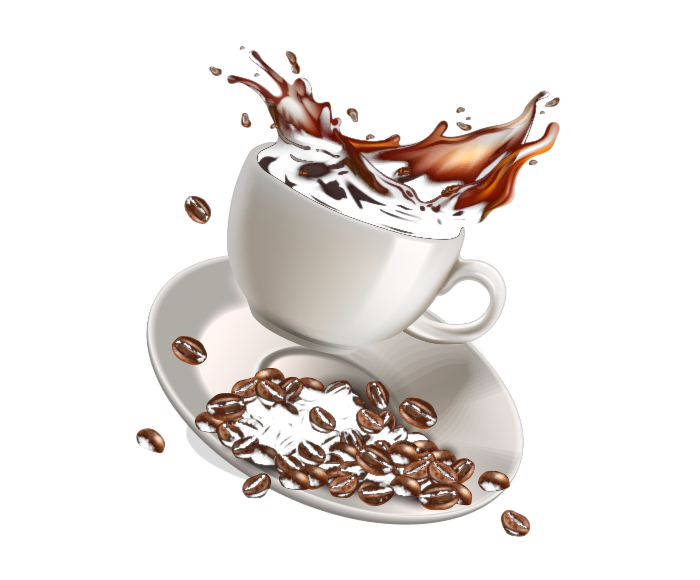
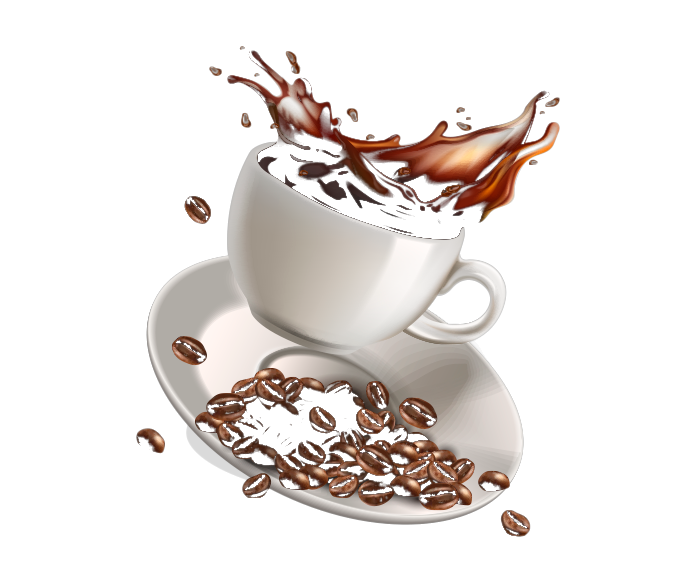
Cups pop from bg with shadow; feedback splashes beside card in side gutters.

diff --git a/bean-scene/styles.css b/bean-scene/styles.css
@@ -600,6 +600,7 @@ select {
   overflow-x: clip;
   overflow-y: visible;
   padding-top: 6.5rem;
+  /* Extra bottom so hanging avatar isn't clipped by next section */
   padding-bottom: 10rem;
   min-height: 640px;
 }
@@ -615,11 +616,13 @@ select {
 
 .feedback__wrap {
   position: relative;
-  z-index: 1;
+  z-index: 3;
   display: flex;
   align-items: center;
   gap: 0;
-  max-width: 940px;
+  /* Narrow card → side gutters for splashes BESIDE, not under */
+  max-width: 720px;
+  width: 100%;
   margin: 0 auto 2rem;
   /* Room for 112px avatar hanging below the card (bottom: -56px) */
   padding-bottom: 7.5rem;
@@ -627,7 +630,9 @@ select {
 
 .feedback__slider {
   position: relative;
+  z-index: 1;
   flex: 1;
+  min-width: 0;
   min-height: 320px;
 }
 
@@ -664,22 +669,31 @@ select {
   text-align: left;
 }
 
-/* Figma feedback splashes: top-right + bottom-left */
+/* Figma feedback splashes: left (bottom) + right (top), BESIDE card — not under it */
 .feedback .deco {
-  width: min(560px, 58vw);
+  z-index: 2;
+  width: min(380px, 24vw);
+  max-width: none;
+  opacity: 1;
+  pointer-events: none;
 }
 
 .feedback .deco--tl {
-  top: -1rem;
+  /* Right splash — sits in right gutter beside card */
+  top: 12%;
   left: auto;
   right: 0;
+  bottom: auto;
   transform: scaleX(-1);
 }
 
 .feedback .deco--br {
+  /* Left splash — sits in left gutter beside card */
+  top: auto;
   right: auto;
   left: 0;
-  bottom: -2.5rem;
+  bottom: 12%;
+  transform: none;
 }
 
 .feedback__slide p {
@@ -789,7 +803,7 @@ select {
   left: 0;
   right: 0;
   /* Extend past section so hard seam does not cut through saucers */
-  bottom: -150px;
+  bottom: -160px;
   z-index: 0;
   background:
     linear-gradient(rgba(96, 56, 9, 0.82), rgba(96, 56, 9, 0.82)),
@@ -799,23 +813,29 @@ select {
 
 .subscribe__wing {
   position: absolute;
-  bottom: -120px;
-  width: min(500px, 36vw);
-  max-width: 540px;
+  bottom: -90px;
+  width: min(420px, 28vw);
+  max-width: 420px;
   height: auto;
   max-height: none;
   pointer-events: none;
   z-index: 5;
-  /* No blend — lighten/screen caused white haze on the right cup */
+  /* Normal only — no blend into brown beans; stronger shadow so cup pops */
   mix-blend-mode: normal;
+  filter:
+    drop-shadow(0 10px 22px rgba(0, 0, 0, 0.65))
+    drop-shadow(0 2px 0 rgba(255, 255, 255, 0.25))
+    brightness(1.08)
+    contrast(1.06);
 }
 
 .subscribe__wing--left {
-  left: -2%;
+  /* Inset so overflow-x: clip does not crop the cup */
+  left: max(0px, 2%);
 }
 
 .subscribe__wing--right {
-  right: -2%;
+  right: max(0px, 2%);
   /* Mirror left cup so splash aims inward (toward center) */
   transform: scaleX(-1);
 }
@@ -1293,15 +1313,21 @@ body.modal-open {
 
   .feedback__wrap {
     gap: 0.4rem;
-    padding-bottom: 7rem;
+    max-width: 720px;
+    padding-bottom: 7.5rem;
   }
 
   .feedback__arrow {
-    top: 50%;
+    /* Keep centered on card (exclude avatar padding) */
+    top: calc((100% - 7.5rem) / 2);
     transform: translateY(-50%);
     width: 44px;
     height: 44px;
     border-radius: 12px;
+  }
+
+  .feedback .deco {
+    width: min(420px, 48vw);
   }
 }
 
@@ -1327,15 +1353,21 @@ body.modal-open {
   }
 
   .feedback__wrap {
-    padding-bottom: 6.5rem;
+    max-width: 100%;
+    padding-bottom: 7rem;
+  }
+
+  .feedback__arrow {
+    top: calc((100% - 7rem) / 2);
   }
 
   .feedback__slide {
     padding: 1.75rem 1.25rem 3.25rem;
   }
 
-  .deco {
-    opacity: 0.55;
+  .feedback .deco {
+    width: min(280px, 55vw);
+    opacity: 0.7;
   }
 }
 
